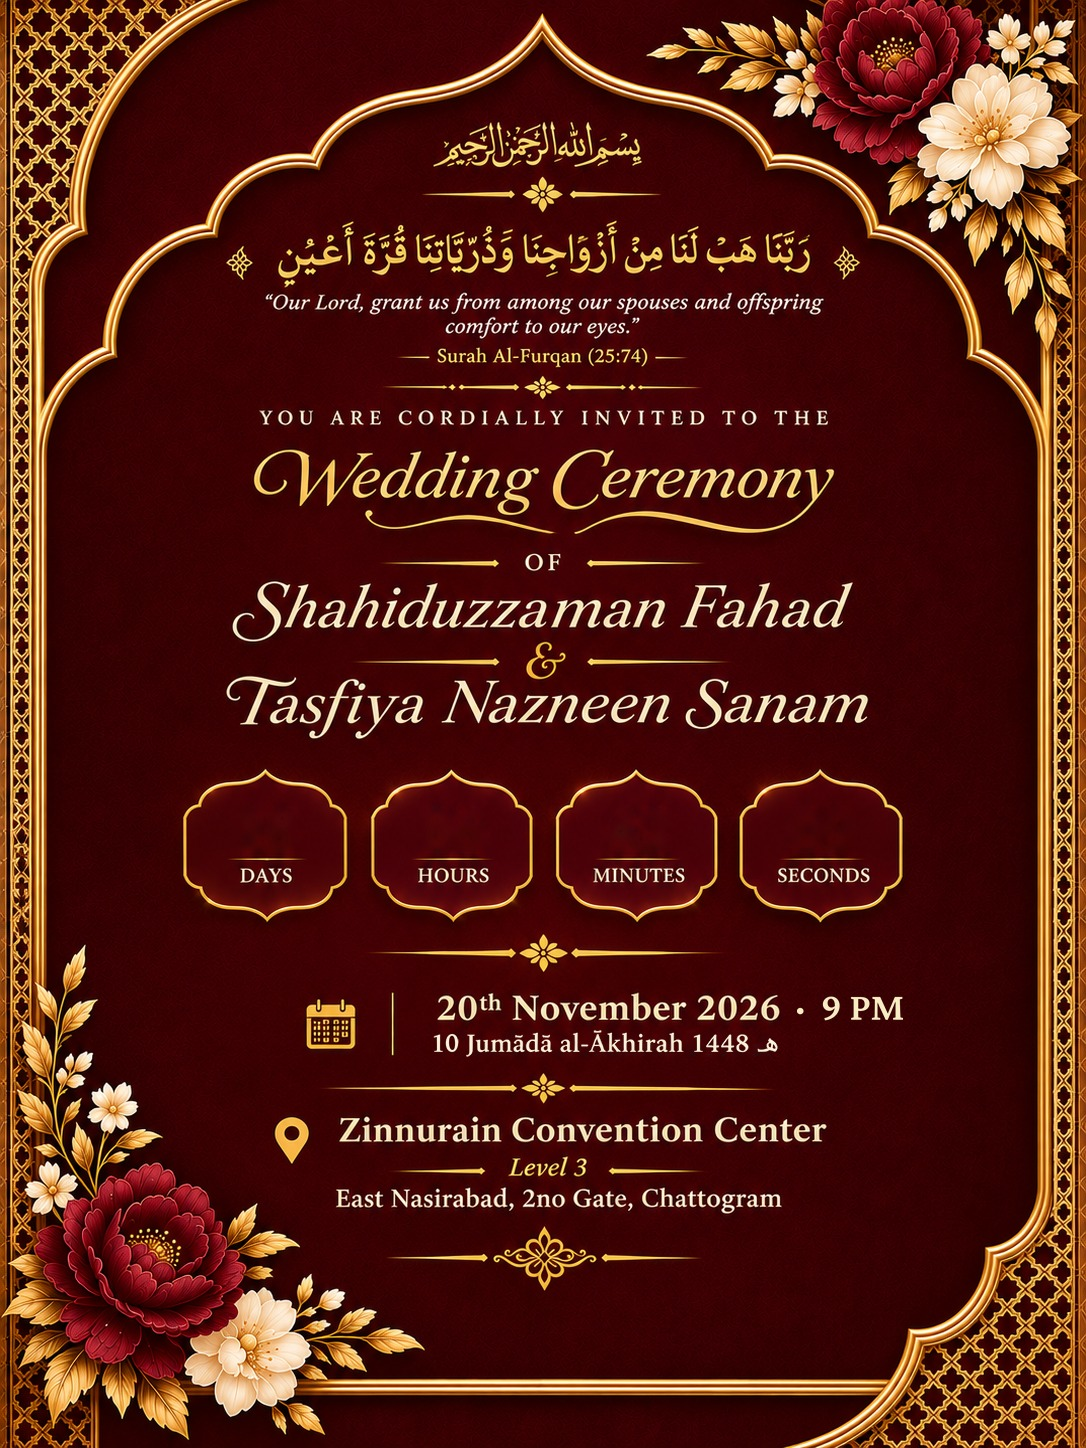
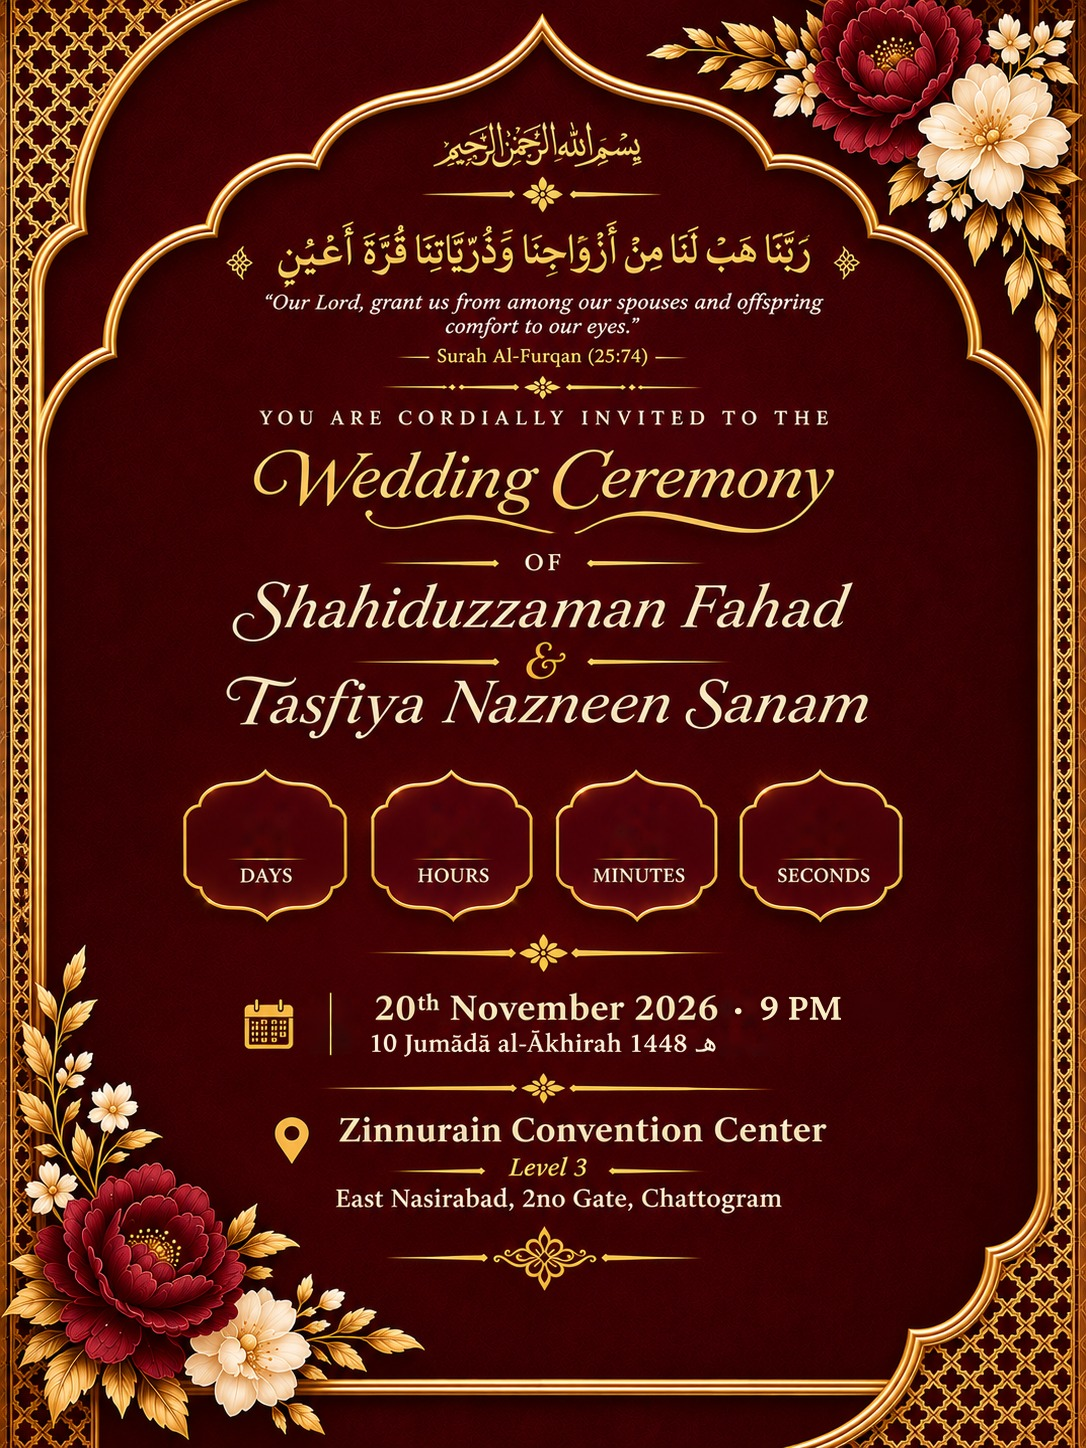
Center the date and time group

Changed region(s): [[0.2127, 0.6837, 0.8508, 0.7459]]

diff --git a/index.html b/index.html
@@ -123,7 +123,7 @@
     window.addEventListener("resize", resize);
     window.addEventListener("orientationchange", resize);
     img.onload = function () { imgReady = true; draw(); };
-    img.src = "invitation.jpg?v=11";
+    img.src = "invitation.jpg?v=12";
     resize();
     var fontReady = Promise.resolve();
     if (window.FontFace && document.fonts) {
